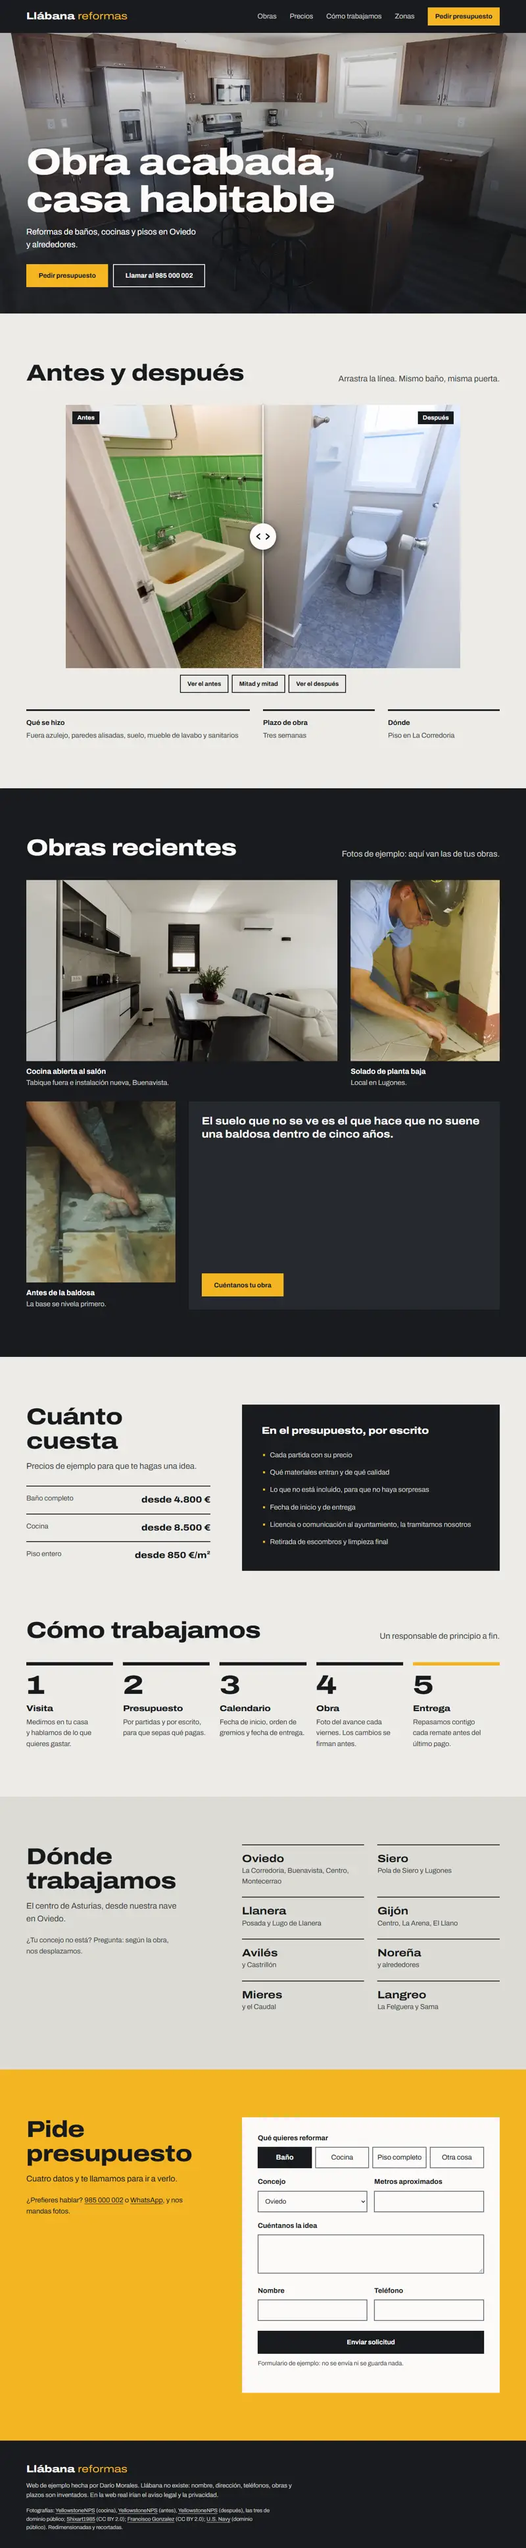
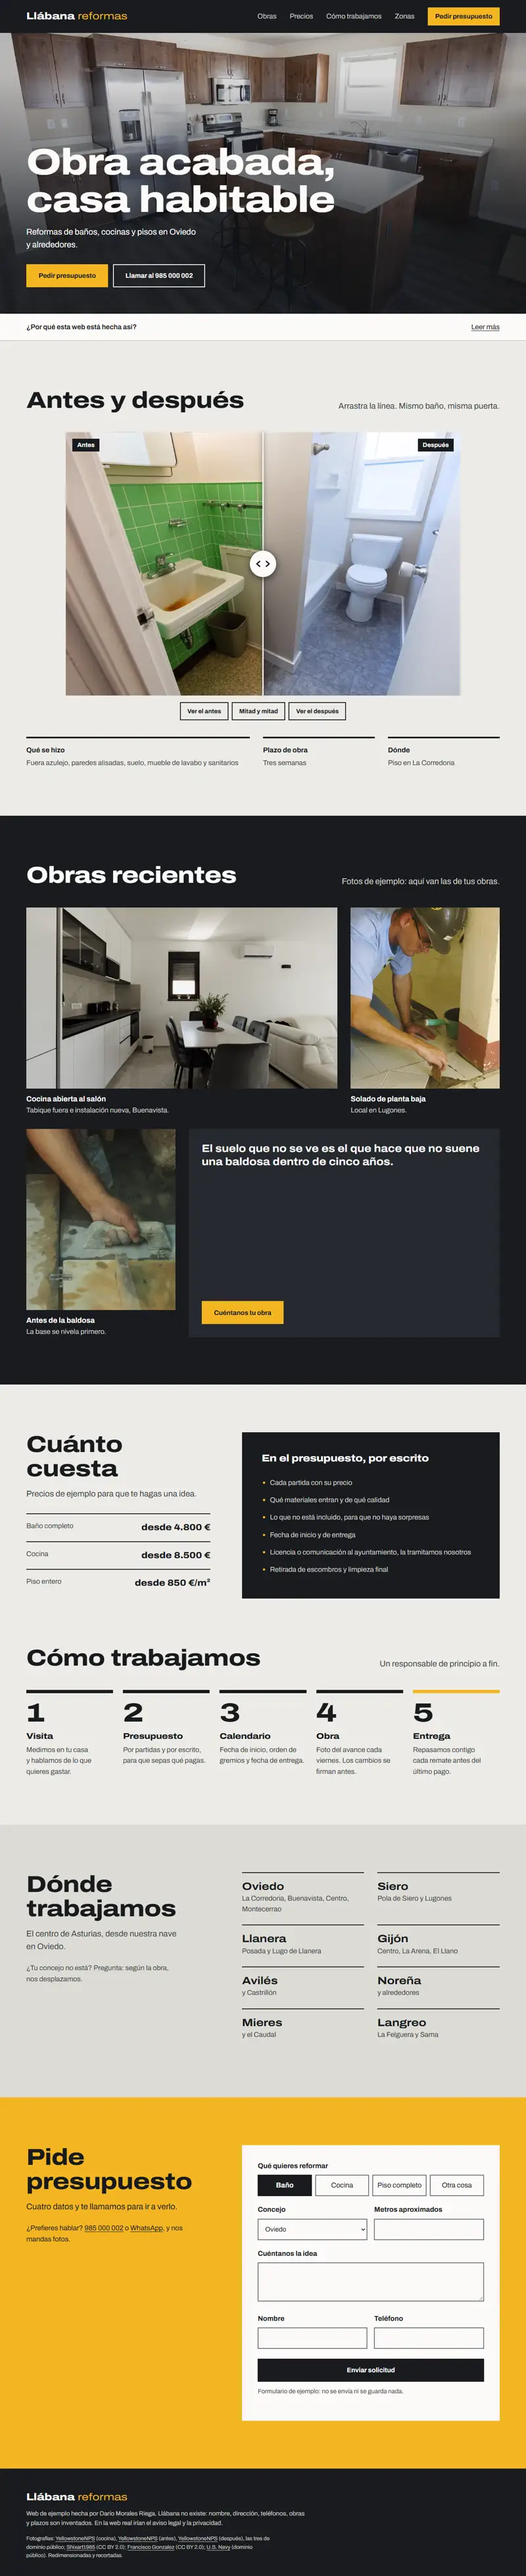
Publicar webs de ejemplo

diff --git a/fisio/styles.css b/fisio/styles.css
@@ -161,3 +161,15 @@ address { font: 400 1.5rem/1.45 var(--font-display); color: var(--color-ink); ma
 /* Táctil */
 a, button, summary, label, input, select { touch-action: manipulation; }
 html { -webkit-tap-highlight-color: transparent; }
+
+/* «Leer más» para el dueño del negocio */
+.why { background: var(--color-card); border-block: 1px solid var(--color-rule); color: var(--color-ink-2); }
+.why details { border: 0; margin: 0; }
+.why summary { display: flex; flex-wrap: wrap; justify-content: space-between; align-items: center; gap: 4px 16px; min-height: 64px; padding-block: 12px; cursor: pointer; list-style: none; font-size: 1.0625rem; font-weight: 600; color: var(--color-ink); }
+.why summary::-webkit-details-marker { display: none; }
+.why summary::after { content: none; }
+.why__more { text-decoration: underline; text-underline-offset: 3px; font-weight: 400; }
+.why details[open] .why__more { visibility: hidden; }
+.why dl { display: grid; grid-template-columns: repeat(auto-fit, minmax(14rem, 1fr)); gap: 24px 40px; margin: 0; padding-block: 8px 32px; }
+.why dt { font-weight: 700; color: var(--color-ink); }
+.why dd { margin: 4px 0 0; }

diff --git a/reformas/index.html b/reformas/index.html
@@ -50,6 +50,16 @@
       </div>
     </section>
 
+    <aside class="why" aria-label="Notas para el dueño del negocio">
+      <div class="wrap">
+        <details>
+          <summary><span>¿Por qué esta web está hecha así?</span> <span class="why__more">Leer más</span></summary>
+          <dl><div><dt>Antes y después</dt><dd>Nadie contrata una reforma sin ver cómo quedan las obras.</dd></div><div><dt>Precios «desde» y qué incluye</dt><dd>El miedo es al sobrecoste. Decirlo claro filtra curiosos y da confianza.</dd></div><div><dt>Presupuesto sin llamar</dt><dd>Muchos comparan por la noche. El formulario recoge lo justo para saber si la obra encaja.</dd></div><div><dt>Zonas donde trabajáis</dt><dd>Evita llamadas de fuera y ayuda a salir al buscar «reformas» más el nombre del concejo.</dd></div><div><dt>Cómo se trabaja, paso a paso</dt><dd>El miedo en una obra son los retrasos y los extras. Explicarlo genera confianza.</dd></div></dl>
+        </details>
+      </div>
+    </aside>
+
+
     <section class="ba" id="obras" aria-labelledby="ba-t">
       <div class="wrap">
         <div class="head">

diff --git a/podologia/index.html b/podologia/index.html
@@ -81,6 +81,16 @@
       </div>
     </section>
 
+    <aside class="why" aria-label="Notas para el dueño del negocio">
+      <div class="wrap">
+        <details>
+          <summary><span>¿Por qué esta web está hecha así?</span> <span class="why__more">Leer más</span></summary>
+          <dl><div><dt>Reservar es lo primero que se ve</dt><dd>Cuantos menos pasos, más citas. Y quien busca de noche reserva sin esperar a que abráis.</dd></div><div><dt>Aviso para urgencias</dt><dd>Quien tiene dolor hoy no reserva para la semana que viene: llama.</dd></div><div><dt>Tratamientos con su nombre</dt><dd>«Uña encarnada» o «estudio de la pisada» es lo que la gente escribe en Google.</dd></div><div><dt>Preguntas frecuentes</dt><dd>Quitan el miedo antes de venir y ahorran llamadas repetidas.</dd></div><div><dt>Colores claros y letra grande</dt><dd>Transmite limpieza y se lee bien a cualquier edad.</dd></div></dl>
+        </details>
+      </div>
+    </aside>
+
+
     <section class="treat" id="tratamientos" aria-labelledby="t-t">
       <div class="wrap">
         <div class="head">

diff --git a/podologia/styles.css b/podologia/styles.css
@@ -166,3 +166,15 @@ html { -webkit-tap-highlight-color: transparent; }
   html { scroll-padding-bottom: 96px; }
   .foot { padding-bottom: 120px; }
 }
+
+/* «Leer más» para el dueño del negocio */
+.why { background: var(--color-card); border-block: 1px solid var(--color-rule); color: var(--color-ink-2); }
+.why details { border: 0; margin: 0; }
+.why summary { display: flex; flex-wrap: wrap; justify-content: space-between; align-items: center; gap: 4px 16px; min-height: 64px; padding-block: 12px; cursor: pointer; list-style: none; font-size: 1.0625rem; font-weight: 600; color: var(--color-ink); }
+.why summary::-webkit-details-marker { display: none; }
+.why summary::after { content: none; }
+.why__more { text-decoration: underline; text-underline-offset: 3px; font-weight: 400; }
+.why details[open] .why__more { visibility: hidden; }
+.why dl { display: grid; grid-template-columns: repeat(auto-fit, minmax(14rem, 1fr)); gap: 24px 40px; margin: 0; padding-block: 8px 32px; }
+.why dt { font-weight: 700; color: var(--color-ink); }
+.why dd { margin: 4px 0 0; }

diff --git a/reformas/styles.css b/reformas/styles.css
@@ -202,3 +202,15 @@ html { -webkit-tap-highlight-color: transparent; }
 @media (max-width: 60rem) {
   .top__in .btn--small { display: none; }
 }
+
+/* «Leer más» para el dueño del negocio */
+.why { background: var(--color-white); border-block: 1px solid var(--color-rule); color: var(--color-ink-2); }
+.why details { border: 0; margin: 0; }
+.why summary { display: flex; flex-wrap: wrap; justify-content: space-between; align-items: center; gap: 4px 16px; min-height: 64px; padding-block: 12px; cursor: pointer; list-style: none; font-size: 1.0625rem; font-weight: 600; color: var(--color-ink); }
+.why summary::-webkit-details-marker { display: none; }
+.why summary::after { content: none; }
+.why__more { text-decoration: underline; text-underline-offset: 3px; font-weight: 400; }
+.why details[open] .why__more { visibility: hidden; }
+.why dl { display: grid; grid-template-columns: repeat(auto-fit, minmax(14rem, 1fr)); gap: 24px 40px; margin: 0; padding-block: 8px 32px; }
+.why dt { font-weight: 700; color: var(--color-ink); }
+.why dd { margin: 4px 0 0; }

diff --git a/fisio/index.html b/fisio/index.html
@@ -55,6 +55,16 @@
       </div>
     </section>
 
+    <aside class="why" aria-label="Notas para el dueño del negocio">
+      <div class="wrap">
+        <details>
+          <summary><span>¿Por qué esta web está hecha así?</span> <span class="why__more">Leer más</span></summary>
+          <dl><div><dt>Pedir cita, a un toque</dt><dd>Quien tiene dolor quiere cita ya. WhatsApp y teléfono están arriba y, en el móvil, siempre a la vista.</dd></div><div><dt>Precios a la vista</dt><dd>Es lo que más se pregunta antes de reservar. Si no aparece, mucha gente no llama.</dd></div><div><dt>Quién te va a tratar</dt><dd>En fisioterapia se elige a una persona, no un local.</dd></div><div><dt>Cómo llegar y horario</dt><dd>Quien busca «fisio cerca» decide por barrio y por hora. También ayuda a salir en Google.</dd></div></dl>
+        </details>
+      </div>
+    </aside>
+
+
     <section class="zonas" aria-labelledby="zonas-t">
       <div class="wrap">
         <dl class="datos">

diff --git a/index.html b/index.html
@@ -52,7 +52,7 @@
 
     <section class="works wrap" id="ejemplos" aria-labelledby="e-t">
       <h2 id="e-t">Tres negocios, tres webs que no se parecen</h2>
-      <p class="hint">Míralas por dentro. Junto a cada una, por qué está hecha así.</p>
+      <p class="hint">Míralas por dentro. Cada una explica por qué está hecha así.</p>
 
       <article class="work">
         <a class="peek" href="fisio/index.html" aria-label="Abrir la web de ejemplo de fisioterapia"><img src="img/fisio-larga.webp" width="800" height="3680" alt="Recorrido por la web de ejemplo de fisioterapia" loading="lazy"></a>
